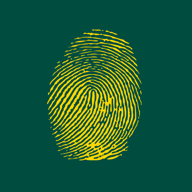
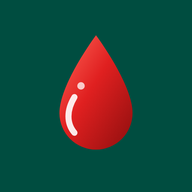
Add files via upload

Changed region(s): [[0.25, 0.125, 0.75, 0.8438]]

diff --git a/index.html b/index.html
@@ -288,7 +288,7 @@ body{background:#005A4E;display:flex;justify-content:center;padding:20px;min-hei
       </div>
       <div>
         <div style="font-size:13px;font-weight:700;color:#00897B;margin-bottom:6px;">5. Third-Party Links</div>
-        <div style="font-size:12px;color:#666;line-height:1.7;">This app contains links to Amazon, American Red Cross, and LabCorp. We are not responsible for the privacy practices of these third-party services.</div>
+        <div style="font-size:12px;color:#666;line-height:1.7;">This app contains links to Amazon, American Red Cross, and LabCorp. We are not responsible for the privacy practices of these third-party services. As an Amazon Associate, SunBay Shades LLC earns from qualifying purchases.</div>
       </div>
       <div>
         <div style="font-size:13px;font-weight:700;color:#00897B;margin-bottom:6px;">6. Contact Us</div>